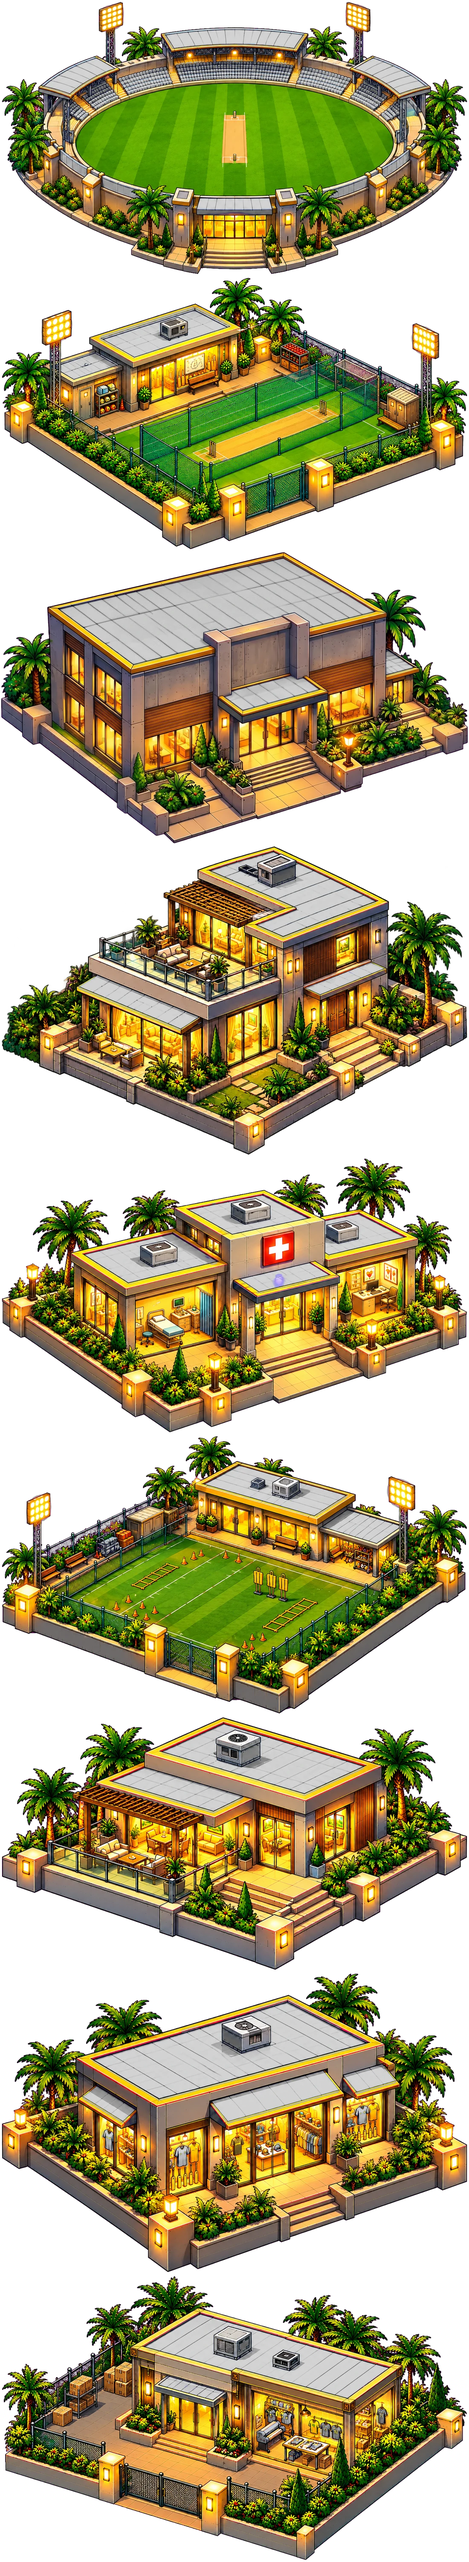
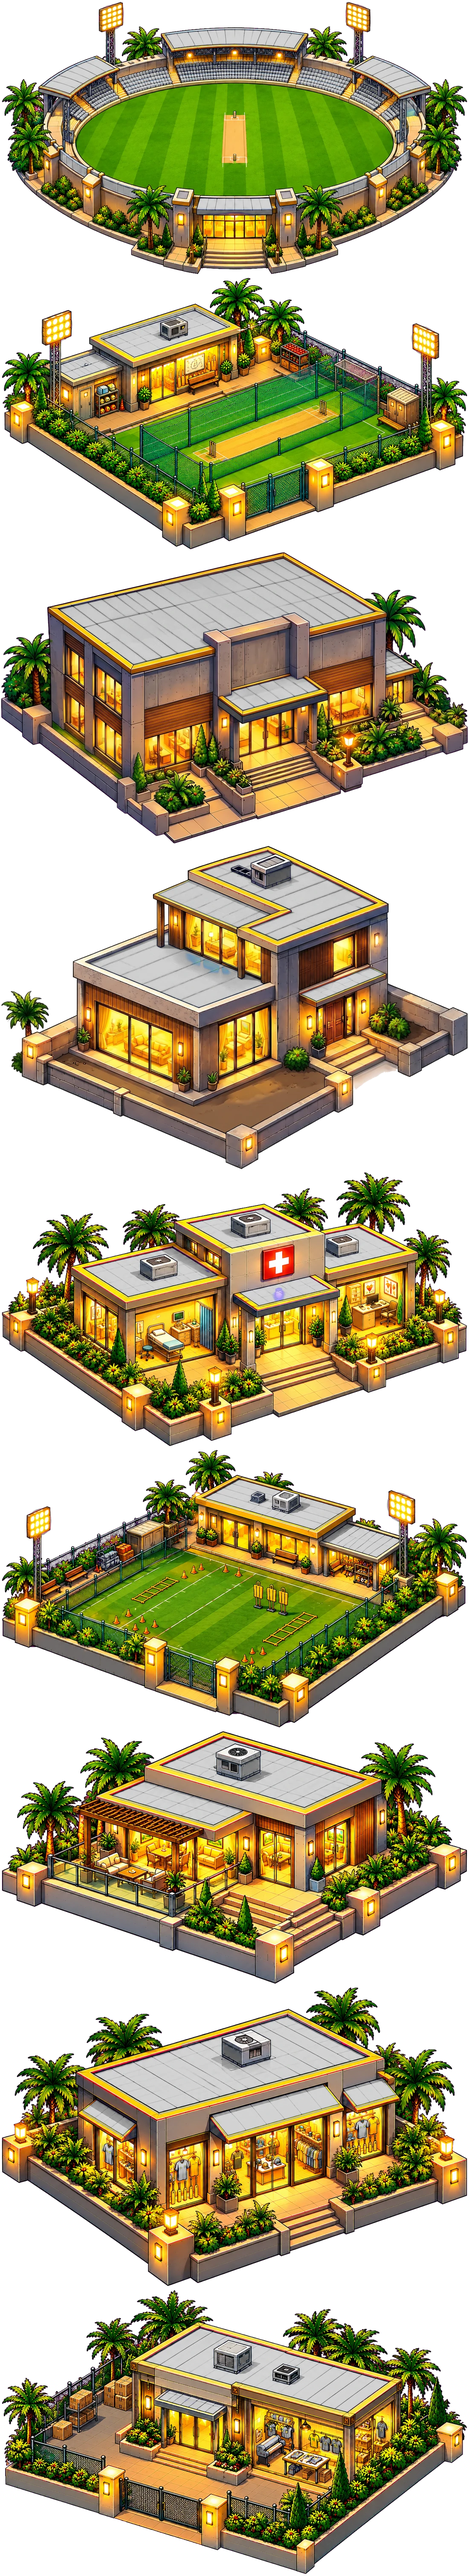
Club map: the level 1 apartment (white-background pictures cut out; levels 2 and 3 kept for later)
Claude-Session: https://claude.ai/code/session_01NK7tbrKg5PdA6fuyEUPXLd

diff --git a/js/clubmap.js b/js/clubmap.js
@@ -9,7 +9,7 @@ const GREY = 0.7;                   // the grey every club-coloured surface was 
 const SITES = {
   stadium:  { x: 0.504, y: 0.446, w: 0.314 },
   training: { x: 0.344, y: 0.165, w: 0.351 },
-  apartment:{ x: 0.725, y: 0.211, w: 0.314 },
+  apartment:{ x: 0.732, y: 0.207, w: 0.319 },
   office:   { x: 0.224, y: 0.312, w: 0.315 },
   academy:  { x: 0.810, y: 0.364, w: 0.294 },
   medical:  { x: 0.234, y: 0.570, w: 0.320 },
@@ -19,7 +19,7 @@ const SITES = {
 };
 const ORDER = Object.keys(SITES).sort((a, b) => SITES[a].y - SITES[b].y);   // far to near, the near ones painted over the far
 // where each building is in img/map/buildings.webp (and its tint in buildings-tint.webp): [row, height], all 1100 wide (tools/build_map.py)
-const ATLAS = {"stadium": [0, 647], "training": [647, 645], "office": [1292, 688], "apartment": [1980, 732], "medical": [2712, 651], "academy": [3363, 659], "clubhouse": [4022, 601], "shop": [4623, 709], "merch": [5332, 675]};
+const ATLAS = {"stadium": [0, 647], "training": [647, 645], "office": [1292, 688], "apartment": [1980, 764], "medical": [2744, 651], "academy": [3395, 659], "clubhouse": [4054, 601], "shop": [4655, 709], "merch": [5364, 675]};
 const AW = 1100;
 const rgbOf = h => [1, 3, 5].map(i => parseInt(h.slice(i, i + 2), 16));
 const load = src => new Promise((res, rej) => { const im = new Image(); im.onload = () => res(im); im.onerror = rej; im.src = src; });

diff --git a/tools/build_map.py b/tools/build_map.py
@@ -40,7 +40,16 @@ def cutout(im):
     """RGB float 0..1 and alpha, the magenta taken out (a picture that already has alpha keeps it)."""
     a = np.array(im.convert('RGBA')).astype(float) / 255
     rgb, al = a[..., :3], a[..., 3]
-    if im.mode != 'RGBA':
+    if im.mode != 'RGBA' and rgb[:12, :12].mean() > 0.93:
+        # a white background (a picture without magenta): the white joined to the picture's edge goes, with its light halo; the picture's edges are cropped a little (stray marks)
+        white = rgb.min(-1) > 0.89
+        lab, _ = ndi.label(white)
+        edge = (set(lab[0]) | set(lab[-1]) | set(lab[:, 0]) | set(lab[:, -1])) - {0}
+        bg = np.isin(lab, list(edge))
+        halo = ndi.binary_dilation(bg, iterations=6) & ~bg & (rgb.min(-1) > 0.75) & ((rgb.max(-1) - rgb.min(-1)) < 0.1)
+        al = 1 - ndi.gaussian_filter((bg | halo).astype(float), 0.8)
+        k = round(al.shape[1] * 0.012); al[:, -k:] = 0; al[:, :k] = 0; al[:k] = 0; al[-k:] = 0
+    elif im.mode != 'RGBA':
         mag = np.minimum(rgb[..., 0], rgb[..., 2]) - rgb[..., 1]           # magenta: red and blue high, green low
         al = 1 - ramp(mag, 0.30, 0.62)
         # the edge: the magenta taken out of the colour

diff --git a/tools/fit_map_sites.py b/tools/fit_map_sites.py
@@ -21,7 +21,7 @@ plots=[]
 for i,sl in enumerate(ndi.find_objects(lab),1):
     if (lab[sl]==i).sum()>40000:
         ys,xs=np.where(lab==i); plots.append(dict(cx=(xs.min()+xs.max())/2,cy=(ys.min()+ys.max())/2,x0=xs.min(),x1=xs.max(),y1=ys.max()))
-ATLAS={"stadium":[0,647],"training":[647,645],"office":[1292,688],"apartment":[1980,732],"medical":[2712,651],"academy":[3363,659],"clubhouse":[4022,601],"shop":[4623,709],"merch":[5332,675]}
+ATLAS={"stadium":[0,647],"training":[647,645],"office":[1292,688],"apartment":[1980,764],"medical":[2744,651],"academy":[3395,659],"clubhouse":[4054,601],"shop":[4655,709],"merch":[5364,675]}
 atlas=Image.open(R+'img/map/buildings.webp').convert('RGBA'); al=np.array(atlas)[...,3]
 def pick(fx,fy): return min(plots,key=lambda p:(p['cx']/W-fx)**2+(p['cy']/H-fy)**2)
 assign={'stadium':(.503,.444),'training':(.34,.195),'apartment':(.735,.245),'office':(.224,.334),'academy':(.812,.382),'medical':(.24,.584),'clubhouse':(.766,.594),'shop':(.239,.739),'merch':(.749,.757)}
